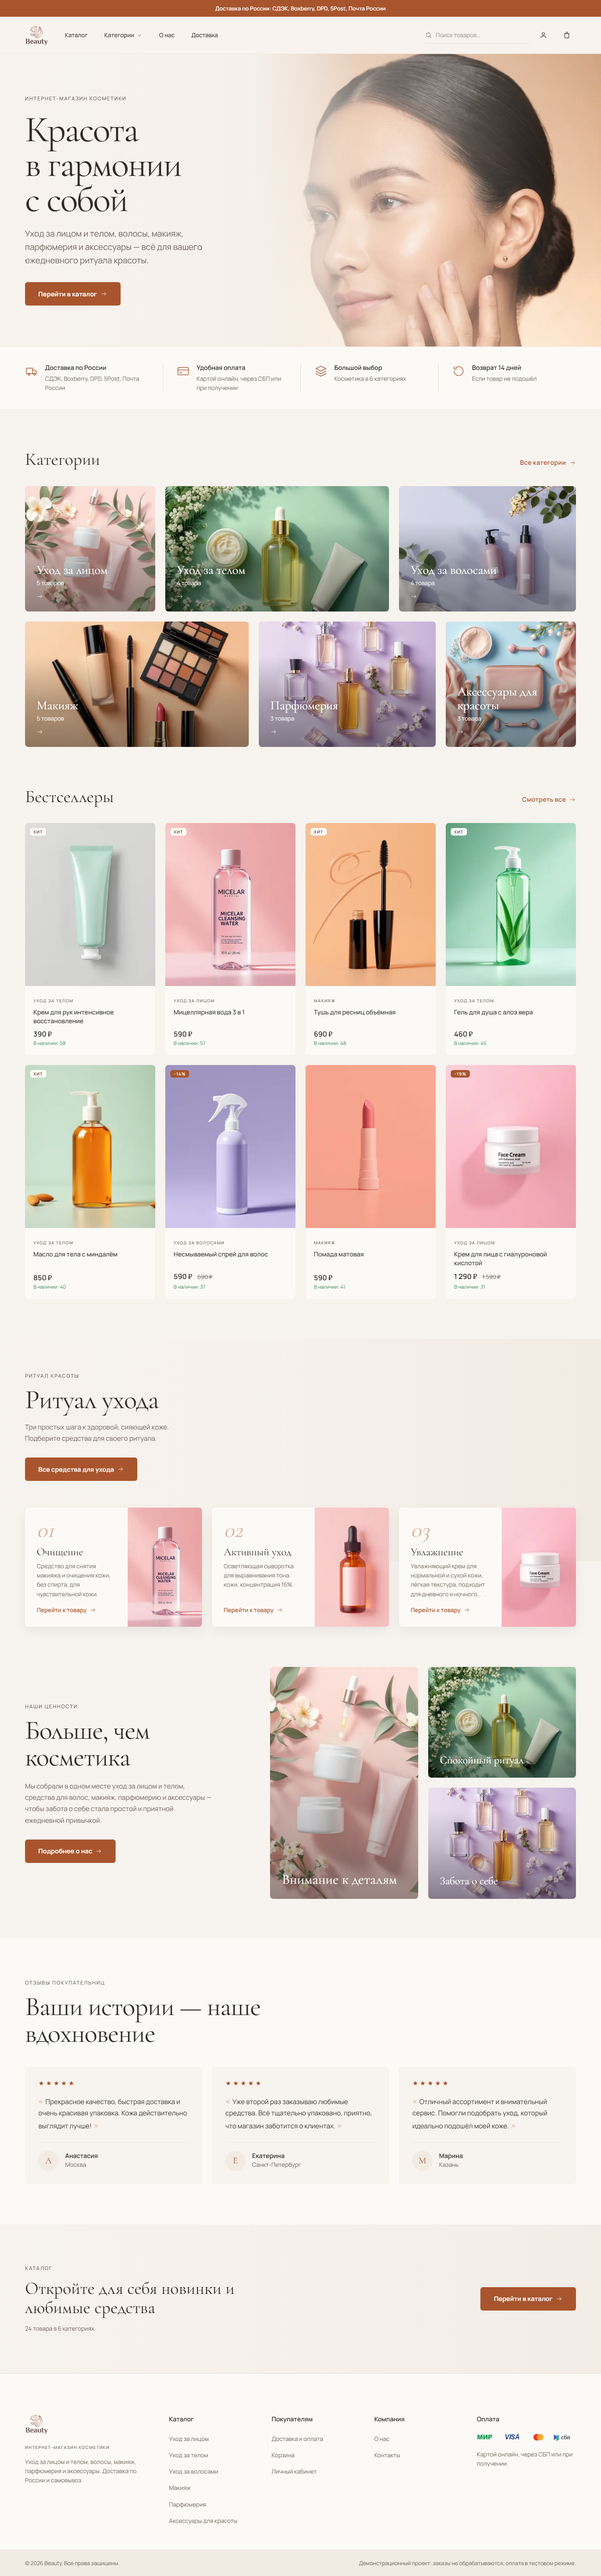
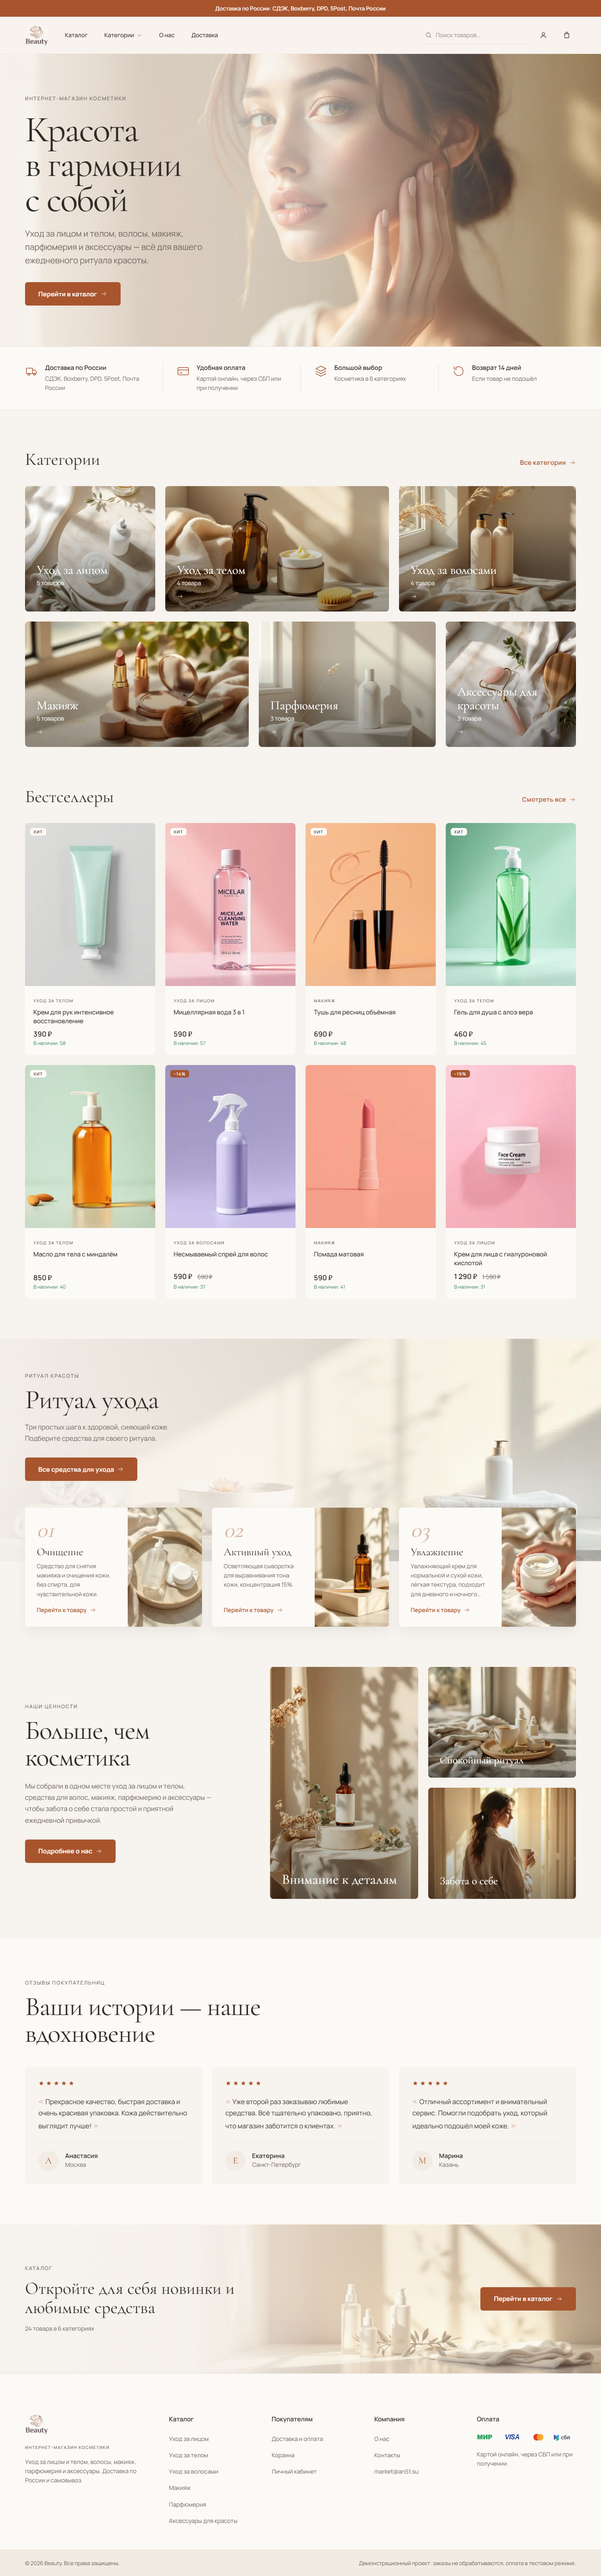
Фото редизайна, контакты, правки баннеров
- 15 сгенерированных изображений (fal.ai flux-pro/v1.1, WebP) в
  public/images/design/: hero, 6 категорий, «Ритуал ухода», «Больше, чем
  косметика», финальный баннер; 2 пробных фото товара в design/trials/.
- Контакты: оставлен только email market@an51.su (константа CONTACT_EMAIL в
  lib/site.ts), телефон, часы работы и демо-плашка убраны; email добавлен в
  футер.
- Финальный баннер: фото сдвинуто вправо с плавным краем, чтобы заголовок
  не перекрывал флаконы; на мобильном hero усилена вуаль для читаемости.
- Удалены неиспользуемые cormorant-garamond-italic-*.woff2.
- Обновлены скриншоты design/screenshots/.

diff --git a/src/app/contacts/page.tsx b/src/app/contacts/page.tsx
@@ -1,9 +1,10 @@
 import type { Metadata } from "next";
 import Breadcrumbs from "@/components/Breadcrumbs";
+import { CONTACT_EMAIL } from "@/lib/site";
 
 export const metadata: Metadata = {
   title: "Контакты",
-  description: "Контакты и режим работы интернет-магазина косметики Beauty.",
+  description: `Связаться с интернет-магазином косметики Beauty: ${CONTACT_EMAIL}.`,
   alternates: { canonical: "/contacts" },
 };
 
@@ -22,19 +23,14 @@ export default function ContactsPage() {
 
         <div className="mt-10 grid gap-4 sm:grid-cols-2 md:gap-6">
           <div className="rounded-md bg-surface p-7 md:p-8">
-            <div className="type-caption text-[11px] text-secondary">Служба поддержки</div>
-            <div className="mt-3 font-display text-[28px] leading-tight text-foreground">8 800 000-00-00</div>
-            <div className="type-small mt-2 text-secondary">звонок по России бесплатный</div>
-          </div>
-          <div className="rounded-md bg-surface p-7 md:p-8">
             <div className="type-caption text-[11px] text-secondary">Email</div>
-            <div className="mt-3 font-display text-[28px] leading-tight text-foreground">shop@beauty.an51.su</div>
-            <div className="type-small mt-2 text-secondary">отвечаем в течение дня</div>
-          </div>
-          <div className="rounded-md bg-surface p-7 md:p-8">
-            <div className="type-caption text-[11px] text-secondary">Режим работы</div>
-            <div className="mt-3 font-display text-[28px] leading-tight text-foreground">Пн–Вс, 9:00–21:00</div>
-            <div className="type-small mt-2 text-secondary">без выходных</div>
+            <a
+              href={`mailto:${CONTACT_EMAIL}`}
+              className="mt-3 block break-all font-display text-[28px] leading-tight text-foreground transition-colors ease-brand hover:text-accent"
+            >
+              {CONTACT_EMAIL}
+            </a>
+            <div className="type-small mt-2 text-secondary">по вопросам заказов и товаров</div>
           </div>
           <div className="rounded-md bg-surface p-7 md:p-8">
             <div className="type-caption text-[11px] text-secondary">Доставка</div>
@@ -42,10 +38,6 @@ export default function ContactsPage() {
             <div className="type-small mt-2 text-secondary">курьер и самовывоз</div>
           </div>
         </div>
-
-        <p className="type-small mt-12 rounded-md bg-surface-alt p-5 text-secondary">
-          Контактные данные указаны для демонстрации и не являются действующими.
-        </p>
       </div>
     </div>
   );

diff --git a/src/components/Footer.tsx b/src/components/Footer.tsx
@@ -1,6 +1,6 @@
 import Image from "next/image";
 import Link from "next/link";
-import { SITE_NAME } from "@/lib/site";
+import { CONTACT_EMAIL, SITE_NAME } from "@/lib/site";
 import type { Category } from "@/lib/types";
 import { MastercardMark, MirMark, SbpMark, VisaMark } from "./ui/icons";
 
@@ -9,8 +9,8 @@ const linkClass =
 
 /**
  * Подвал по макету: бренд, три колонки ссылок и колонка «Оплата».
- * Ссылки — только на реально существующие страницы; контакты (телефон,
- * email, часы работы) не выводим — на /contacts они помечены как демо.
+ * Ссылки — только на реально существующие страницы; из контактов выводим
+ * только email (телефона и часов работы у магазина нет).
  */
 export default function Footer({
   categories,
@@ -95,6 +95,11 @@ export default function Footer({
               <Link href="/contacts" className={linkClass}>
                 Контакты
               </Link>
+            </li>
+            <li>
+              <a href={`mailto:${CONTACT_EMAIL}`} className={linkClass}>
+                {CONTACT_EMAIL}
+              </a>
             </li>
           </ul>
         </nav>

diff --git a/src/components/home/CtaBanner.tsx b/src/components/home/CtaBanner.tsx
@@ -17,13 +17,17 @@ export default function CtaBanner({
   return (
     <section aria-labelledby="cta-title" className="relative isolate overflow-hidden bg-surface-alt">
       {image ? (
-        <Image
-          src={image}
-          alt=""
-          fill
-          sizes="100vw"
-          className="-z-20 object-cover object-[70%_center]"
-        />
+        // Фото сдвинуто вправо и плавно уходит в фон слева — флаконы не
+        // попадают под заголовок.
+        <div className="absolute inset-y-0 right-0 -z-20 w-full md:w-[68%] md:[mask-image:linear-gradient(to_right,transparent,#000_30%)]">
+          <Image
+            src={image}
+            alt=""
+            fill
+            sizes="(max-width: 768px) 100vw, 68vw"
+            className="object-cover"
+          />
+        </div>
       ) : null}
       <div
         aria-hidden

diff --git a/src/components/home/Hero.tsx b/src/components/home/Hero.tsx
@@ -40,7 +40,7 @@ export default function Hero({ image }: { image: string | null }) {
       {/* вуаль в цвет фона: читаемость заголовка на любом фото */}
       <div
         aria-hidden
-        className="absolute inset-0 -z-10 bg-gradient-to-b from-background/85 via-background/55 to-background/30 md:bg-gradient-to-r md:from-background/95 md:via-background/60 md:to-transparent"
+        className="absolute inset-0 -z-10 bg-gradient-to-b from-background/40 via-background/75 to-background/90 md:bg-gradient-to-r md:from-background/95 md:via-background/60 md:to-transparent"
       />
 
       <div className="container-page flex min-h-[560px] items-center py-16 md:min-h-[640px] lg:min-h-[700px]">

diff --git a/src/lib/site.ts b/src/lib/site.ts
@@ -5,6 +5,9 @@ export const SITE_URL = (process.env.SITE_URL ?? "https://beauty.an51.su").repla
 
 export const SITE_NAME = "Beauty";
 
+/** Публичный email для связи (контакты, футер). Телефона и часов работы нет. */
+export const CONTACT_EMAIL = "market@an51.su";
+
 export const SITE_DESCRIPTION =
   "Интернет-магазин косметики и средств для красоты: уход за лицом и телом, волосы, макияж, парфюмерия и аксессуары. Доставка курьером и самовывоз.";
 
